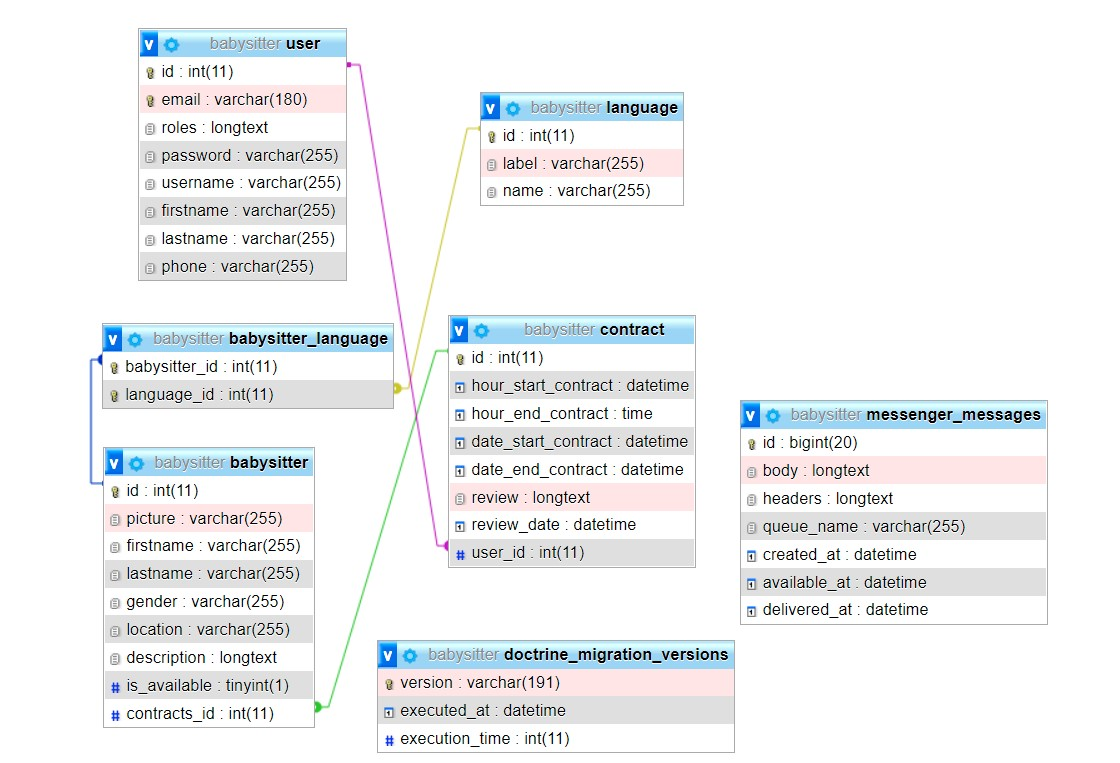
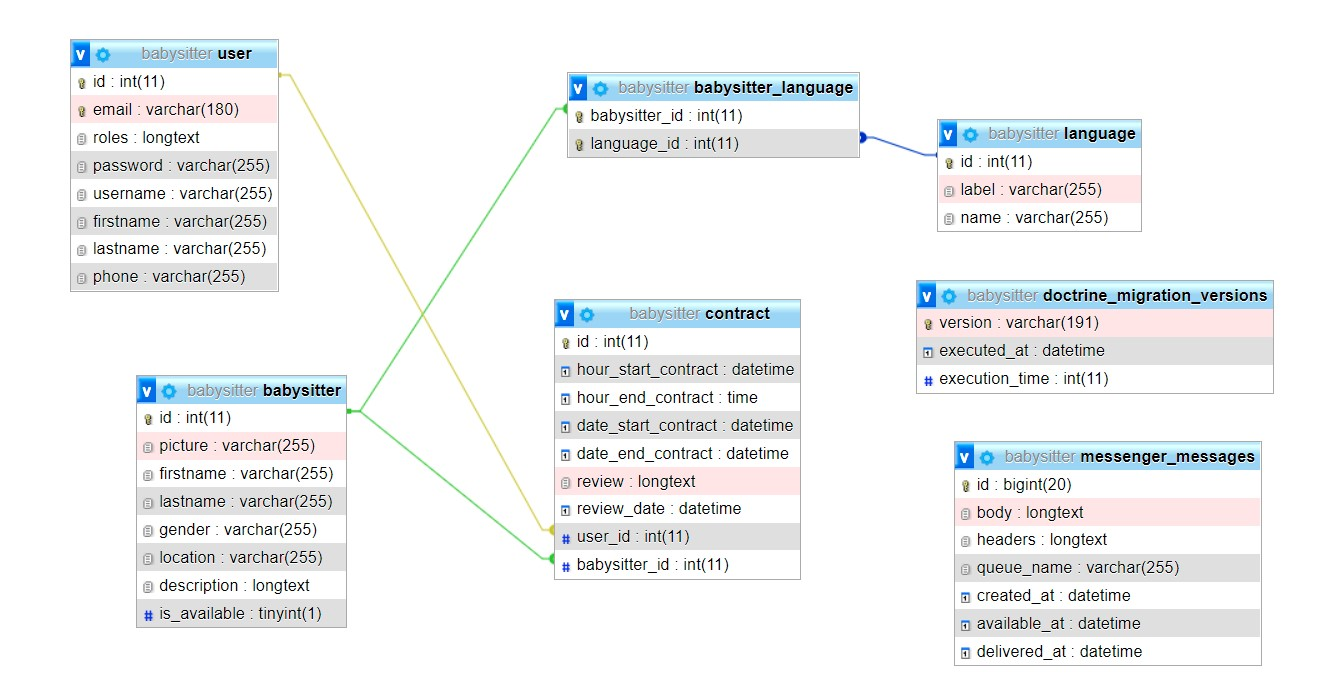
some modifications in Entities and Forms + new twigs

diff --git a/src/Entity/Contract.php b/src/Entity/Contract.php
@@ -15,7 +15,7 @@ class Contract
     #[ORM\Column(type: 'integer')]
     private $id;
 
-    #[ORM\Column(type: 'datetime', nullable: true)]
+    #[ORM\Column(type: 'time', nullable: true)]
     private $hourStartContract;
 
     #[ORM\Column(type: 'time', nullable: true)]
@@ -33,16 +33,11 @@ class Contract
     #[ORM\Column(type: 'datetime_immutable')]
     private $reviewDate;
 
-    #[ORM\OneToMany(mappedBy: 'contracts', targetEntity: Babysitter::class)]
-    private $babysittersContract;
-
     #[ORM\ManyToOne(targetEntity: User::class, inversedBy: 'contracts')]
     private $user;
 
-    public function __construct()
-    {
-        $this->babysitters = new ArrayCollection();
-    }
+    #[ORM\ManyToOne(targetEntity: Babysitter::class, inversedBy: 'contracts')]
+    private $babysitter;
 
     public function getId(): ?int
     {
@@ -121,36 +116,6 @@ class Contract
         return $this;
     }
 
-    /**
-     * @return Collection<int, Babysitter>
-     */
-    public function getBabysitters(): Collection
-    {
-        return $this->babysittersContract;
-    }
-
-    public function addBabysitter(Babysitter $babysitter): self
-    {
-        if (!$this->babysittersContract->contains($babysitter)) {
-            $this->babysittersContract[] = $babysitter;
-            $babysitter->setContracts($this);
-        }
-
-        return $this;
-    }
-
-    public function removeBabysitter(Babysitter $babysitter): self
-    {
-        if ($this->babysittersContract->removeElement($babysitter)) {
-            // set the owning side to null (unless already changed)
-            if ($babysitter->getContracts() === $this) {
-                $babysitter->setContracts(null);
-            }
-        }
-
-        return $this;
-    }
-
     public function getUser(): ?User
     {
         return $this->user;
@@ -159,6 +124,18 @@ class Contract
     public function setUser(?User $user): self
     {
         $this->user = $user;
+
+        return $this;
+    }
+
+    public function getBabysitter(): ?Babysitter
+    {
+        return $this->babysitter;
+    }
+
+    public function setBabysitter(?Babysitter $babysitter): self
+    {
+        $this->babysitter = $babysitter;
 
         return $this;
     }

diff --git a/migrations/Version20220323143032.php b/migrations/Version20220323143032.php
@@ -1,0 +1,41 @@
+<?php
+
+declare(strict_types=1);
+
+namespace DoctrineMigrations;
+
+use Doctrine\DBAL\Schema\Schema;
+use Doctrine\Migrations\AbstractMigration;
+
+/**
+ * Auto-generated Migration: Please modify to your needs!
+ */
+final class Version20220323143032 extends AbstractMigration
+{
+    public function getDescription(): string
+    {
+        return '';
+    }
+
+    public function up(Schema $schema): void
+    {
+        // this up() migration is auto-generated, please modify it to your needs
+        $this->addSql('ALTER TABLE babysitter DROP FOREIGN KEY FK_9E0E090424584564');
+        $this->addSql('DROP INDEX IDX_9E0E090424584564 ON babysitter');
+        $this->addSql('ALTER TABLE babysitter DROP contracts_id');
+        $this->addSql('ALTER TABLE contract ADD babysitter_id INT DEFAULT NULL');
+        $this->addSql('ALTER TABLE contract ADD CONSTRAINT FK_E98F28595732FB3C FOREIGN KEY (babysitter_id) REFERENCES babysitter (id)');
+        $this->addSql('CREATE INDEX IDX_E98F28595732FB3C ON contract (babysitter_id)');
+    }
+
+    public function down(Schema $schema): void
+    {
+        // this down() migration is auto-generated, please modify it to your needs
+        $this->addSql('ALTER TABLE babysitter ADD contracts_id INT DEFAULT NULL');
+        $this->addSql('ALTER TABLE babysitter ADD CONSTRAINT FK_9E0E090424584564 FOREIGN KEY (contracts_id) REFERENCES contract (id)');
+        $this->addSql('CREATE INDEX IDX_9E0E090424584564 ON babysitter (contracts_id)');
+        $this->addSql('ALTER TABLE contract DROP FOREIGN KEY FK_E98F28595732FB3C');
+        $this->addSql('DROP INDEX IDX_E98F28595732FB3C ON contract');
+        $this->addSql('ALTER TABLE contract DROP babysitter_id');
+    }
+}

diff --git a/src/Controller/BabysitterController.php b/src/Controller/BabysitterController.php
@@ -13,16 +13,18 @@ use Symfony\Component\HttpFoundation\File\Exception\FileException;
 
 class BabysitterController extends AbstractController
 {
-    #[Route('/add', name: 'app_add')]
+    #[Route('babysitter/add', name: 'app_add')]
     public function add(Request $req)
     {
         $this->denyAccessUnlessGranted('ROLE_ADMIN');
+
         $babysitter = new Babysitter();
         $formBabysitter = $this->createForm(BabysitterType::class, $babysitter);
         $formBabysitter->handleRequest($req);
 
         if($formBabysitter->isSubmitted() && $formBabysitter->isValid()) {
             $babysitter->setIsAvailable((true));
+            
             if ($babysitter->getPicture() !== null) {
                 $file = $formBabysitter->get('picture')->getData();
                 $fileName =  uniqid(). '.' .$file->guessExtension();
@@ -51,11 +53,13 @@ class BabysitterController extends AbstractController
 
     }
 
+    #[Route('babysitter/show', name: 'app_show')]
     public function show(Babysitter $babysitter) {
         return $this->render('/babysitter/show.html.twig', [
             'babysitter'=>$babysitter]);
     }
 
+    #[Route('babysitter/edit', name: 'app_edit')]
     public function edit(Babysitter $babysitter, Request $req)
     {
         $oldPicture = $babysitter->getPicture();
@@ -99,7 +103,7 @@ class BabysitterController extends AbstractController
             return $this->redirectToRoute('admin');
         }
 
-        return $this->render('blog/edit.html.twig', [
+        return $this->render('babysitter/edit.html.twig', [
             'babysitter' => $babysitter,
             'formBabysitter' => $formBabysitter->createView()
         ]);

diff --git a/src/Entity/Babysitter.php b/src/Entity/Babysitter.php
@@ -39,12 +39,14 @@ class Babysitter
     #[ORM\ManyToMany(targetEntity: Language::class, inversedBy: 'babysittersLanguage')]
     private $languages;
 
-    #[ORM\ManyToOne(targetEntity: Contract::class, inversedBy: 'babysittersContract')]
+    #[ORM\OneToMany(mappedBy: 'babysitter', targetEntity: Contract::class)]
     private $contracts;
+
 
     public function __construct()
     {
         $this->languages = new ArrayCollection();
+        $this->contracts = new ArrayCollection();
     }
 
     public function getId(): ?int
@@ -160,14 +162,32 @@ class Babysitter
         return $this;
     }
 
-    public function getContracts(): ?Contract
+    /**
+     * @return Collection<int, Contract>
+     */
+    public function getContracts(): Collection
     {
         return $this->contracts;
     }
 
-    public function setContracts(?Contract $contracts): self
+    public function addContract(Contract $contract): self
     {
-        $this->contracts = $contracts;
+        if (!$this->contracts->contains($contract)) {
+            $this->contracts[] = $contract;
+            $contract->setBabysitter($this);
+        }
+
+        return $this;
+    }
+
+    public function removeContract(Contract $contract): self
+    {
+        if ($this->contracts->removeElement($contract)) {
+            // set the owning side to null (unless already changed)
+            if ($contract->getBabysitter() === $this) {
+                $contract->setBabysitter(null);
+            }
+        }
 
         return $this;
     }

diff --git a/src/Controller/RegistrationController.php b/src/Controller/RegistrationController.php
@@ -30,16 +30,16 @@ class RegistrationController extends AbstractController
                     $form->get('plainPassword')->getData()
                 )
             );
-
+            // $entityManager = $this->getDoctrine()->getManager();
             $entityManager->persist($user);
             $entityManager->flush();
             // do anything else you need here, like send an email
-            return $this->redirectToRoute('app_home');
-            // return $userAuthenticator->authenticateUser(
-            //     $user,
-            //     $authenticator,
-            //     $request
-            // );
+            return $this->redirectToRoute('app_login');
+            return $userAuthenticator->authenticateUser(
+                $user,
+                $authenticator,
+                $request
+            );
         }
 
         return $this->render('registration/register.html.twig', [

diff --git a/src/Controller/HomeController.php b/src/Controller/HomeController.php
@@ -4,6 +4,7 @@ namespace App\Controller;
 
 use App\Entity\User;
 use App\Entity\Babysitter;
+use App\Repository\BabysitterRepository;
 use Symfony\Component\HttpFoundation\Response;
 use Symfony\Component\Routing\Annotation\Route;
 use Symfony\Bundle\FrameworkBundle\Controller\AbstractController;
@@ -11,12 +12,9 @@ use Symfony\Bundle\FrameworkBundle\Controller\AbstractController;
 class HomeController extends AbstractController
 {
     #[Route('/home', name: 'app_home')]
-    public function index(): Response
+    public function index(BabysitterRepository $babysitterRepository)
     {
-        // if (!$this->getUser()) {
-        //     return $this->redirectToRoute('app-login');
-        // }
-        $babysitters = $this->getDoctrine()->getRepository(Babysitter::class)->findBy(
+        $babysitters = $babysitterRepository->findBy(
             ['isAvailable' => true],
             
         );

diff --git a/src/Controller/SecurityController.php b/src/Controller/SecurityController.php
@@ -27,6 +27,11 @@ class SecurityController extends AbstractController
     #[Route(path: '/logout', name: 'app_logout')]
     public function logout()
     {
-        throw new \LogicException('This method can be blank - it will be intercepted by the logout key on your firewall.');
+        // throw new \LogicException('This method can be blank - it will be intercepted by the logout key on your firewall.');
+    }
+
+    #[Route('/after/logout', name: 'logout')]
+    public function afterLogout() {
+        return $this->render('/security/login.html.twig');
     }
 }

diff --git a/src/Form/RegistrationFormType.php b/src/Form/RegistrationFormType.php
@@ -11,7 +11,6 @@ use Symfony\Component\Validator\Constraints\NotBlank;
 use Symfony\Component\OptionsResolver\OptionsResolver;
 use Symfony\Component\Form\Extension\Core\Type\TextType;
 use Symfony\Component\Form\Extension\Core\Type\EmailType;
-use Symfony\Component\Form\Extension\Core\Type\NumberType;
 use Symfony\Component\Form\Extension\Core\Type\CheckboxType;
 use Symfony\Component\Form\Extension\Core\Type\PasswordType;
 

diff --git a/src/Security/FormLoginAuthenticator.php b/src/Security/FormLoginAuthenticator.php
@@ -50,7 +50,7 @@ class FormLoginAuthenticator extends AbstractLoginFormAuthenticator
         }
 
         // For example:
-        return new RedirectResponse($this->urlGenerator->generate('accueil'));
+        return new RedirectResponse($this->urlGenerator->generate('app_home'));
         // throw new \Exception('TODO: provide a valid redirect inside '.__FILE__);
     }
 

diff --git a/src/Form/BabysitterType.php b/src/Form/BabysitterType.php
@@ -30,6 +30,11 @@ class BabysitterType extends AbstractType
                 'multiple' => true,
                 'expanded' => false
             ])
+            ->add('contracts', EntityType::class, [
+                'class'=> Contract::class,
+                
+
+            ])
         ;
     }
 
